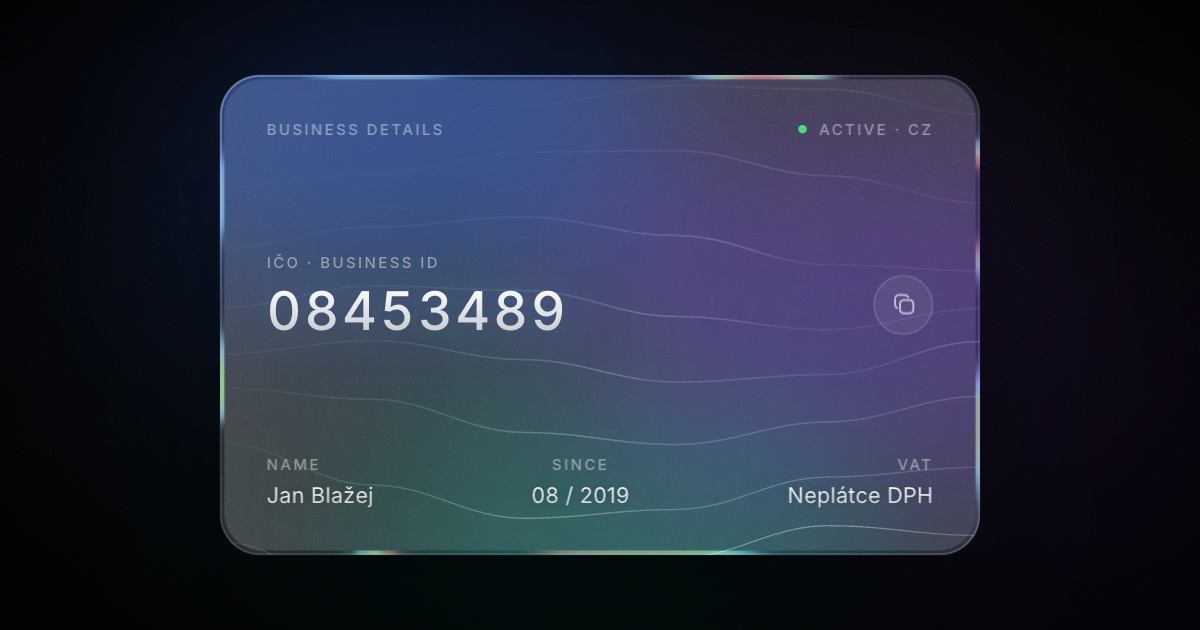
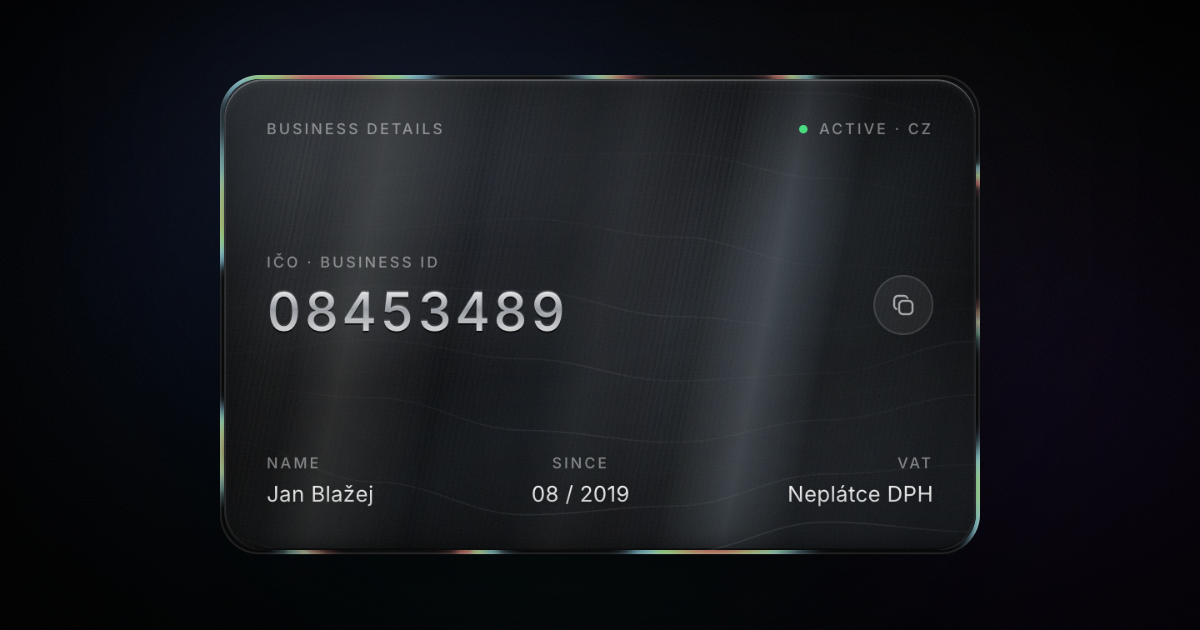
feat: Recast the /ico card in brushed black metal
The glass card read as a colour field: blue, violet and teal blobs under
an iridescent foil. This makes the plate anodised black metal instead —
a near-black gradient with a broad anisotropic reflection band, the fine
brushed grain running with it, and a machined bevel around the edge.

Two things worth knowing for anyone touching this again:

  * The reflection layers blend with `screen`, not `soft-light` or
    `overlay`. Over a near-black plate those modes lift nothing, so the
    first pass looked like matte dark glass — metal needs additive light.

  * MetalFx paints its canvas at `z-index: 0`, below the wrapped child.
    An opaque plate drawn edge-to-edge therefore swallows the ring, so
    every decorative layer is now inset by the ring's own 2.5px.

The waves, glare and halo lose their hues to match, the business ID
reads as engraved rather than backlit, and noise on the plate keeps the
brushed lines from turning into a regular screen door.

The page background is untouched. The OG image is re-rendered from the
new card with the recipe documented on the page.

diff --git a/src/app/app.css b/src/app/app.css
@@ -218,23 +218,31 @@ body:has([data-page-scroll]) {
   touch-action: pan-y;
 }
 
-/* Ambient glow bleeding out from under the card. */
+/* Anodised black metal instead of frosted glass. No border of its own: the
+   metal-fx ring is the edge, and the machined bevel sits just inside it. */
+.ico-plate {
+  background:
+    linear-gradient(147deg, #2b3138 0%, #171b20 7%, #0b0d10 20%, #060709 42%, #0a0d10 56%, #040506 72%, #15191e 100%),
+    #050607;
+}
+
+/* Ambient glow bleeding out from under the card — graphite, not chromatic. */
 .ico-halo {
   border-radius: 40px;
   background:
-    radial-gradient(60% 55% at 26% 18%, rgba(64, 122, 255, 0.34) 0%, transparent 70%),
-    radial-gradient(55% 55% at 82% 30%, rgba(150, 88, 255, 0.28) 0%, transparent 72%),
-    radial-gradient(60% 60% at 50% 92%, rgba(0, 208, 176, 0.2) 0%, transparent 72%);
+    radial-gradient(60% 55% at 26% 18%, rgba(158, 176, 200, 0.22) 0%, transparent 70%),
+    radial-gradient(55% 55% at 82% 30%, rgba(126, 136, 154, 0.18) 0%, transparent 72%),
+    radial-gradient(60% 60% at 50% 92%, rgba(96, 106, 120, 0.14) 0%, transparent 72%);
   filter: blur(56px);
   opacity: calc(0.5 + var(--glare) * 0.5);
   transition: opacity 0.7s ease-out;
 }
 
-/* Organic blobs drifting inside the glass. */
+/* Light pooling on the plate — greyscale, so the black never picks up a hue. */
 .ico-blob {
   filter: blur(46px);
   mix-blend-mode: screen;
-  opacity: 0.32;
+  opacity: 0.16;
   will-change: transform, border-radius;
 }
 
@@ -244,12 +252,103 @@ body:has([data-page-scroll]) {
 
 .ico-blob-b {
   animation: ico-blob-b 34s ease-in-out infinite;
-  opacity: 0.26;
+  opacity: 0.13;
 }
 
 .ico-blob-c {
   animation: ico-blob-c 30s ease-in-out infinite;
-  opacity: 0.2;
+  opacity: 0.11;
+}
+
+/* Broad anisotropic band — the wide soft reflection brushed metal throws. */
+.ico-metal-drift {
+  animation: ico-metal-drift 30s ease-in-out infinite;
+  will-change: transform;
+}
+
+/* Screen, not overlay: on a near-black plate only additive light shows up.
+   Tight ramps keep the bands specular instead of washing into a gradient. */
+.ico-metal-sheen {
+  background: linear-gradient(
+    101deg,
+    rgba(255, 255, 255, 0) 4%,
+    rgba(202, 219, 240, 0.06) 8%,
+    rgba(226, 238, 252, 0.34) 11%,
+    rgba(202, 219, 240, 0.05) 15%,
+    rgba(255, 255, 255, 0) 21%,
+    rgba(255, 246, 232, 0.05) 32%,
+    rgba(255, 250, 240, 0.16) 35%,
+    rgba(255, 255, 255, 0) 41%,
+    rgba(168, 188, 212, 0.05) 56%,
+    rgba(214, 232, 252, 0.26) 60%,
+    rgba(168, 188, 212, 0.04) 64%,
+    rgba(255, 255, 255, 0) 72%,
+    rgba(228, 238, 250, 0.13) 86%,
+    rgba(255, 255, 255, 0) 93%
+  );
+  background-size: 150% 100%;
+  background-position: calc(50% + var(--shift) * 22%) 0;
+  mix-blend-mode: screen;
+  opacity: calc(0.8 + var(--glare) * 0.2);
+}
+
+@keyframes ico-metal-drift {
+  0%,
+  100% {
+    transform: translate3d(0, 0, 0);
+  }
+  50% {
+    transform: translate3d(-4%, 1.5%, 0);
+  }
+}
+
+/* Fine brushed grain, masked to the lit bands: on real brushed metal the
+   grain only catches light where the band does. */
+.ico-metal-brush {
+  background-image:
+    repeating-linear-gradient(
+      101deg,
+      rgba(255, 255, 255, 0.16) 0px,
+      rgba(255, 255, 255, 0) 2px,
+      rgba(255, 255, 255, 0.1) 4px,
+      rgba(255, 255, 255, 0) 7px
+    ),
+    repeating-linear-gradient(
+      101deg,
+      rgba(255, 255, 255, 0.08) 0px,
+      rgba(255, 255, 255, 0) 1px,
+      rgba(255, 255, 255, 0.05) 2px,
+      rgba(255, 255, 255, 0) 3px
+    );
+  mix-blend-mode: screen;
+  opacity: calc(0.42 + var(--glare) * 0.4);
+  mask-image:
+    linear-gradient(
+      101deg,
+      rgba(255, 255, 255, 0.05) 3%,
+      #fff 11%,
+      rgba(255, 255, 255, 0.06) 20%,
+      rgba(255, 255, 255, 0.72) 35%,
+      rgba(255, 255, 255, 0.05) 45%,
+      #fff 60%,
+      rgba(255, 255, 255, 0.06) 71%,
+      rgba(255, 255, 255, 0.66) 86%,
+      rgba(255, 255, 255, 0.08) 96%
+    ), radial-gradient(170% 140% at 24% -12%, #fff 0%, rgba(255, 255, 255, 0.55) 55%, rgba(255, 255, 255, 0.18) 100%);
+  -webkit-mask-composite: source-in;
+  mask-composite: intersect;
+}
+
+/* Machined edge: a lit top bevel, a dark base, and depth pulled into the middle. */
+.ico-metal-bevel {
+  box-shadow:
+    inset 0 1px 0 rgba(255, 255, 255, 0.24),
+    inset 0 2px 5px -2px rgba(255, 255, 255, 0.16),
+    inset 1px 0 0 rgba(255, 255, 255, 0.09),
+    inset -1px 0 0 rgba(255, 255, 255, 0.05),
+    inset 0 -1px 0 rgba(0, 0, 0, 0.75),
+    inset 0 -6px 14px -8px rgba(0, 0, 0, 0.9),
+    inset 0 0 60px 6px rgba(0, 0, 0, 0.5);
 }
 
 @keyframes ico-blob-a {
@@ -303,6 +402,7 @@ body:has([data-page-scroll]) {
 /* Organic waves flowing across the lower half of the card. */
 .ico-waves {
   mix-blend-mode: screen;
+  opacity: 0.3;
   mask-image: linear-gradient(163deg, transparent 14%, rgba(255, 255, 255, 0.42) 48%, #fff 100%);
 }
 
@@ -338,15 +438,16 @@ body:has([data-page-scroll]) {
   }
 }
 
-/* Specular highlight tracking the pointer. */
+/* Specular highlight tracking the pointer — tight and cold, the way metal
+   catches a light source compared with the soft bloom glass gives. */
 .ico-glare {
   background:
-    radial-gradient(120px circle at var(--mx) var(--my), rgba(255, 255, 255, 0.14) 0%, transparent 70%),
+    radial-gradient(80px circle at var(--mx) var(--my), rgba(255, 255, 255, 0.2) 0%, transparent 72%),
     radial-gradient(
-      320px circle at var(--mx) var(--my),
-      rgba(255, 255, 255, 0.16) 0%,
-      rgba(190, 220, 255, 0.07) 36%,
-      transparent 66%
+      280px circle at var(--mx) var(--my),
+      rgba(230, 238, 248, 0.13) 0%,
+      rgba(170, 186, 206, 0.05) 38%,
+      transparent 68%
     );
   mix-blend-mode: screen;
   opacity: var(--glare);
@@ -365,9 +466,9 @@ body:has([data-page-scroll]) {
   );
   background-size: 240% 100%;
   background-position: calc(50% + var(--shift) * 26%) 0;
-  filter: blur(7px) saturate(1.35);
+  filter: blur(9px) saturate(0.5);
   mix-blend-mode: color-dodge;
-  opacity: calc(0.03 + var(--glare) * 0.075);
+  opacity: calc(0.012 + var(--glare) * 0.035);
   mask-image: radial-gradient(
     420px circle at var(--mx) var(--my),
     #fff 0%,
@@ -383,15 +484,15 @@ body:has([data-page-scroll]) {
   inset: -20%;
   background: linear-gradient(
     102deg,
-    transparent 34%,
-    rgba(255, 255, 255, 0.1) 45%,
-    rgba(255, 255, 255, 0.32) 50%,
-    rgba(255, 255, 255, 0.1) 55%,
-    transparent 66%
+    transparent 36%,
+    rgba(196, 212, 232, 0.06) 46%,
+    rgba(255, 255, 255, 0.2) 50%,
+    rgba(196, 212, 232, 0.06) 54%,
+    transparent 64%
   );
   transform: translate3d(calc(var(--shift) * 46%), 0, 0);
-  opacity: calc(var(--glare) * 0.55);
-  mix-blend-mode: overlay;
+  opacity: calc(0.18 + var(--glare) * 0.7);
+  mix-blend-mode: screen;
 }
 
 /* Film grain so the gradients never band. */
@@ -400,6 +501,19 @@ body:has([data-page-scroll]) {
   background-size: 200px 200px;
   mix-blend-mode: soft-light;
   opacity: 0.09;
+}
+
+/* On the plate the noise has to add light, or the brushed lines stay a
+   perfectly regular screen door. */
+.ico-grain-metal {
+  mix-blend-mode: screen;
+  opacity: 0.055;
+}
+
+/* Etched into the plate: a dark bite below, a lit lip above. */
+.ico-engraved {
+  filter: drop-shadow(0 1px 0 rgba(0, 0, 0, 0.85)) drop-shadow(0 -1px 0 rgba(255, 255, 255, 0.14))
+    drop-shadow(0 0 14px rgba(226, 236, 248, 0.16));
 }
 
 .ico-pulse {
@@ -445,6 +559,7 @@ body:has([data-page-scroll]) {
   .ico-blob-c,
   .ico-waves-drift,
   .ico-wave,
+  .ico-metal-drift,
   .ico-pulse,
   .ico-scene-light-a,
   .ico-scene-light-b {

diff --git a/src/components/ico-card.tsx b/src/components/ico-card.tsx
@@ -57,7 +57,7 @@ const WAVES = Array.from({length: WAVE_COUNT}, (_, index) => ({
 }))
 
 const Waves = () => (
-  <div aria-hidden="true" className="ico-waves pointer-events-none absolute inset-0 overflow-hidden rounded-3xl">
+  <div aria-hidden="true" className="ico-waves pointer-events-none absolute inset-0 overflow-hidden rounded-[inherit]">
     <svg
       className="ico-waves-drift absolute inset-0 size-full"
       viewBox={`0 0 ${WAVE_VIEWBOX.width} ${WAVE_VIEWBOX.height}`}
@@ -66,10 +66,10 @@ const Waves = () => (
       <title>Organic waves</title>
       <defs>
         <linearGradient id="ico-wave" x1="0" y1="0" x2="1" y2="0.4">
-          <stop offset="0%" stopColor="#ffffff" stopOpacity="0.06" />
-          <stop offset="34%" stopColor="#8fd3ff" stopOpacity="0.34" />
-          <stop offset="72%" stopColor="#ffffff" stopOpacity="0.42" />
-          <stop offset="100%" stopColor="#c0a5ff" stopOpacity="0.16" />
+          <stop offset="0%" stopColor="#ffffff" stopOpacity="0.04" />
+          <stop offset="34%" stopColor="#c3ceda" stopOpacity="0.26" />
+          <stop offset="72%" stopColor="#ffffff" stopOpacity="0.34" />
+          <stop offset="100%" stopColor="#7c8794" stopOpacity="0.12" />
         </linearGradient>
       </defs>
       {WAVES.map(wave => (
@@ -88,11 +88,26 @@ const Waves = () => (
   </div>
 )
 
+/** Light pooling on the plate — steel greys, so nothing tints the black. */
 const Blobs = () => (
-  <div aria-hidden="true" className="pointer-events-none absolute inset-0 overflow-hidden rounded-3xl">
-    <div className="ico-blob ico-blob-a absolute -top-[30%] -left-[16%] size-[74%] bg-[#2f6bff]" />
-    <div className="ico-blob ico-blob-b absolute top-[18%] -right-[20%] size-[70%] bg-[#7a3cff]" />
-    <div className="ico-blob ico-blob-c absolute -bottom-[34%] left-[22%] size-[64%] bg-[#00d0b0]" />
+  <div aria-hidden="true" className="pointer-events-none absolute inset-0 overflow-hidden rounded-[inherit]">
+    <div className="ico-blob ico-blob-a absolute -top-[30%] -left-[16%] size-[74%] bg-[#8f9dae]" />
+    <div className="ico-blob ico-blob-b absolute top-[18%] -right-[20%] size-[70%] bg-[#5d6673]" />
+    <div className="ico-blob ico-blob-c absolute -bottom-[34%] left-[22%] size-[64%] bg-[#454a52]" />
+  </div>
+)
+
+/**
+ * The metal itself: a broad anisotropic reflection band, the fine brushed
+ * grain running with it, and a machined bevel around the edge.
+ */
+const Metal = () => (
+  <div aria-hidden="true" className="pointer-events-none absolute inset-0 overflow-hidden rounded-[inherit]">
+    <div className="ico-metal-drift absolute -inset-[18%]">
+      <div className="ico-metal-sheen absolute inset-0" />
+    </div>
+    <div className="ico-metal-brush absolute inset-0" />
+    <div className="ico-metal-bevel absolute inset-0 rounded-[inherit]" />
   </div>
 )
 
@@ -238,16 +253,26 @@ export const IcoCard: FC = () => {
               style={{transform: 'translateZ(-80px)'}}
             />
 
-            <div aria-hidden="true" className="card card-radius-24 absolute inset-0 shadow-[0_40px_110px_-34px_#000]" />
-            <Blobs />
-            <Waves />
-            <div aria-hidden="true" className="ico-holo pointer-events-none absolute inset-0 rounded-3xl" />
-            <div aria-hidden="true" className="ico-glare pointer-events-none absolute inset-0 rounded-3xl" />
+            <div aria-hidden="true" className="absolute inset-0 rounded-3xl shadow-[0_40px_110px_-34px_#000]" />
+
+            {/*
+              Everything opaque is inset by the metal ring's own width — the
+              MetalFx canvas paints at z-index 0, below this content, so a plate
+              drawn edge-to-edge would swallow the ring.
+            */}
             <div
               aria-hidden="true"
-              className="ico-sheen pointer-events-none absolute inset-0 overflow-hidden rounded-3xl"
-            />
-            <div aria-hidden="true" className="ico-grain pointer-events-none absolute inset-0 rounded-3xl" />
+              className="pointer-events-none absolute inset-[2.5px] overflow-hidden rounded-[21.5px]"
+            >
+              <div className="ico-plate absolute inset-0" />
+              <Blobs />
+              <Metal />
+              <Waves />
+              <div className="ico-holo absolute inset-0" />
+              <div className="ico-glare absolute inset-0" />
+              <div className="ico-sheen absolute inset-0 overflow-hidden" />
+              <div className="ico-grain ico-grain-metal absolute inset-0" />
+            </div>
 
             <div
               className="relative flex h-full flex-col justify-between p-[20px] sm:p-[28px]"
@@ -264,7 +289,7 @@ export const IcoCard: FC = () => {
               <div className="flex items-end justify-between gap-4" style={{transform: 'translateZ(14px)'}}>
                 <div className="flex flex-col gap-[9px]">
                   <Label>IČO · Business ID</Label>
-                  <span className="block bg-[linear-gradient(180deg,#ffffff_0%,rgba(255,255,255,0.68)_100%)] bg-clip-text text-[26px] font-medium leading-[100%] tracking-[0.06em] text-transparent tabular-nums drop-shadow-[0_0_12px_rgba(120,180,255,0.28)] sm:text-[32px]">
+                  <span className="ico-engraved block bg-[linear-gradient(180deg,#ffffff_0%,rgba(226,232,240,0.62)_46%,rgba(255,255,255,0.9)_100%)] bg-clip-text text-[26px] font-medium leading-[100%] tracking-[0.06em] text-transparent tabular-nums sm:text-[32px]">
                     {ico.ico}
                   </span>
                 </div>
